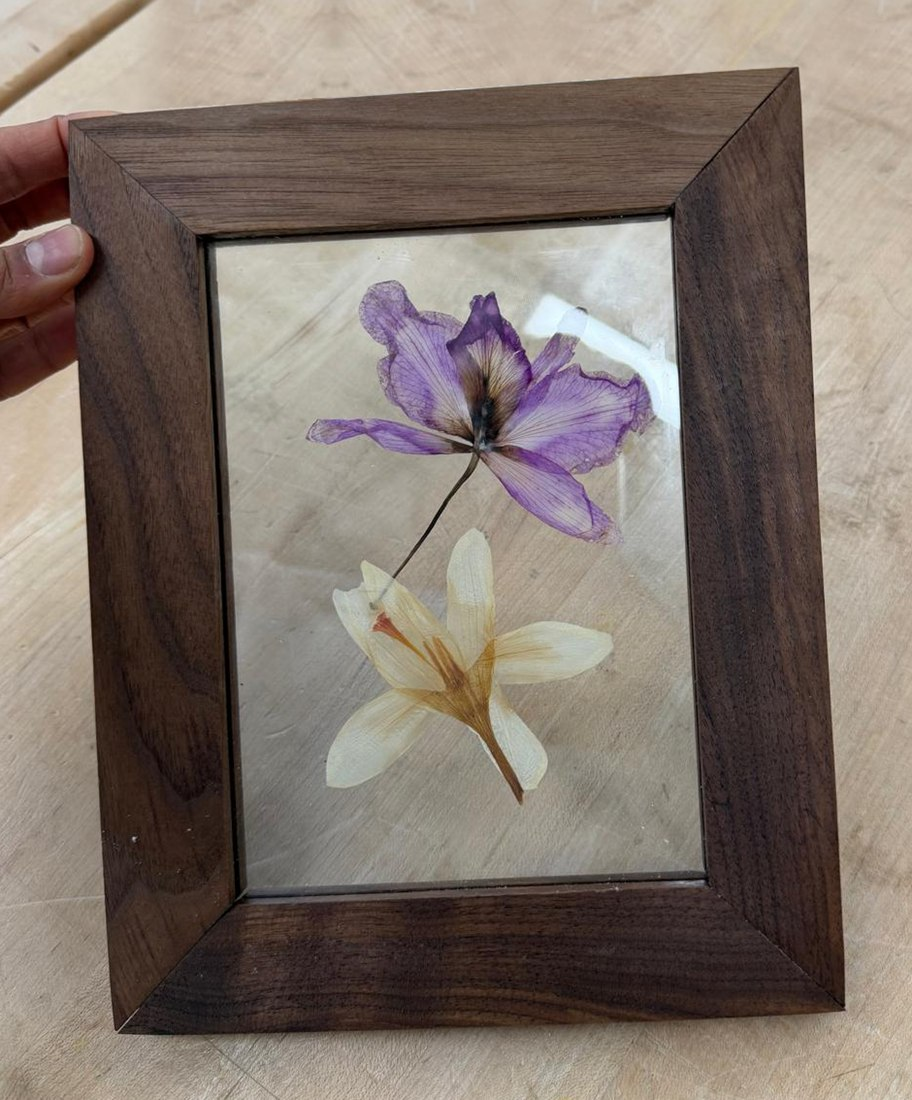
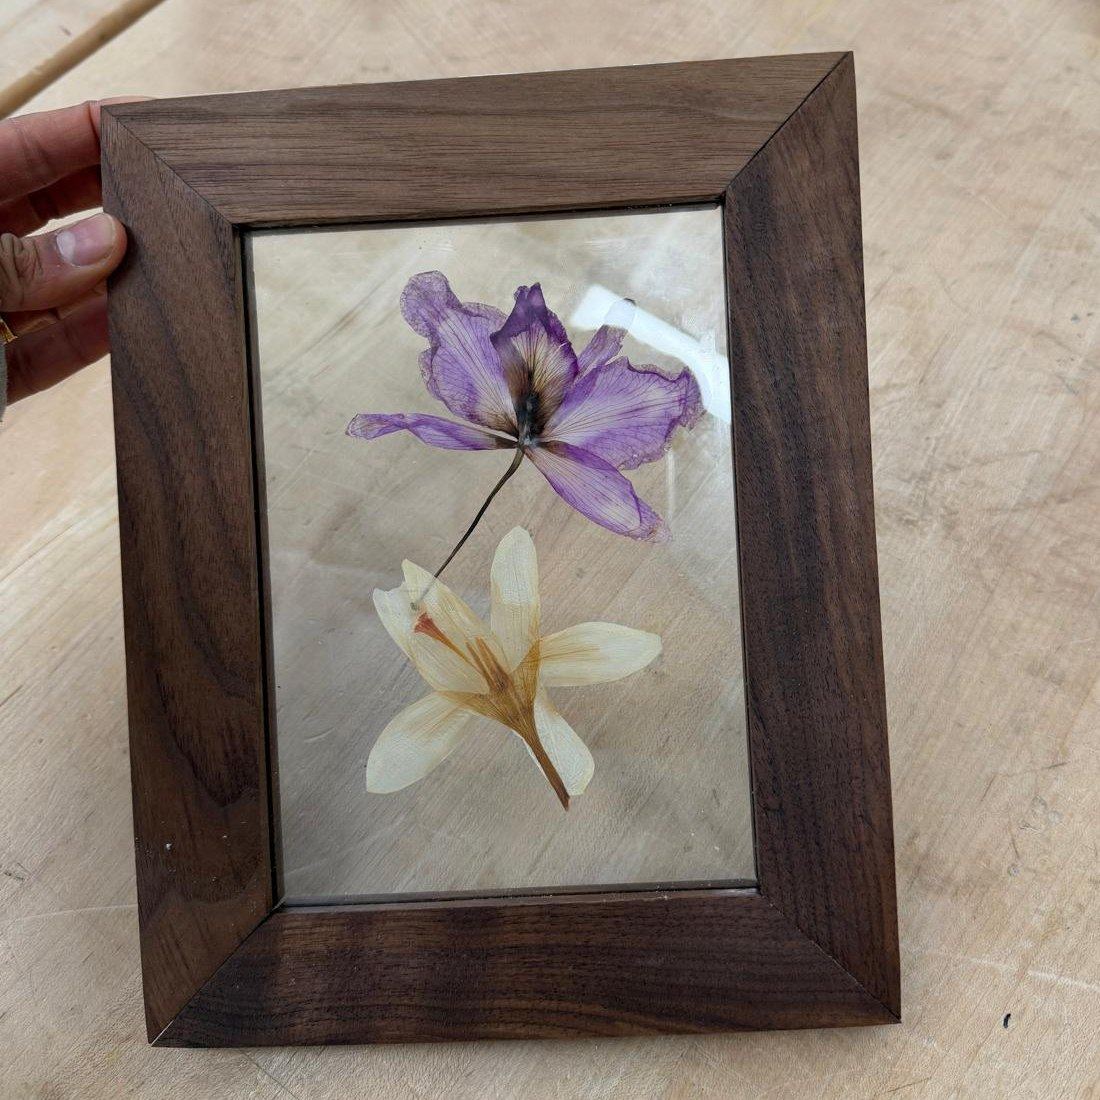
Make walnut photo frame image square like the other Fun Fabrication photos

diff --git a/projects.html b/projects.html
@@ -209,7 +209,7 @@
       <div class="fab-gallery">
 
         <figure class="fab-item" tabindex="0">
-          <img src="images/fab/walnut-frame.jpg" alt="Walnut photo frame holding pressed flowers">
+          <img src="images/fab/walnut-frame.jpg?v=2" alt="Walnut photo frame holding pressed flowers">
           <figcaption>Walnut Photo Frame</figcaption>
           <ul class="skills"><li>Jointing &amp; Planing</li><li>Routing</li><li>Finishing</li></ul>
         </figure>
